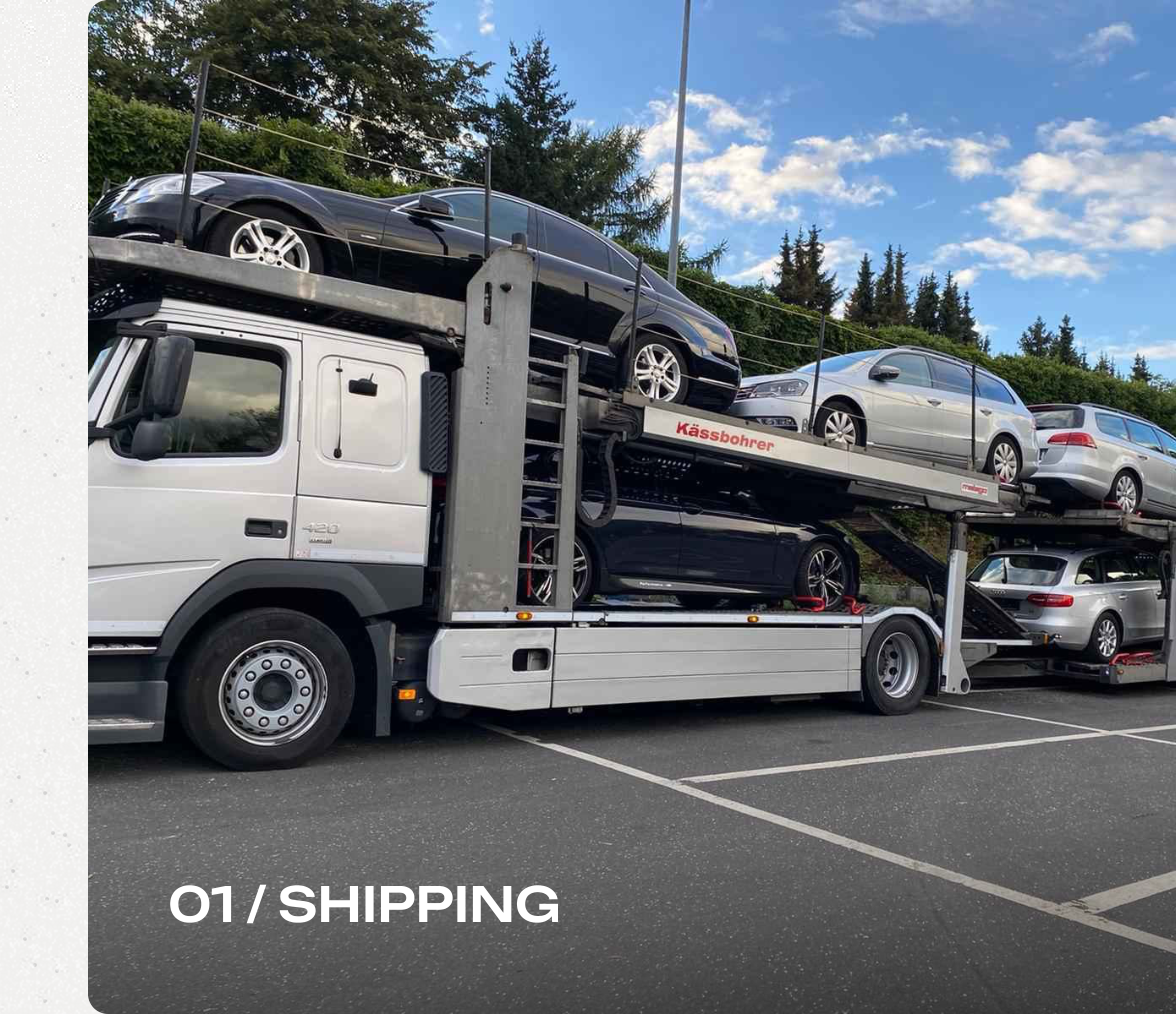
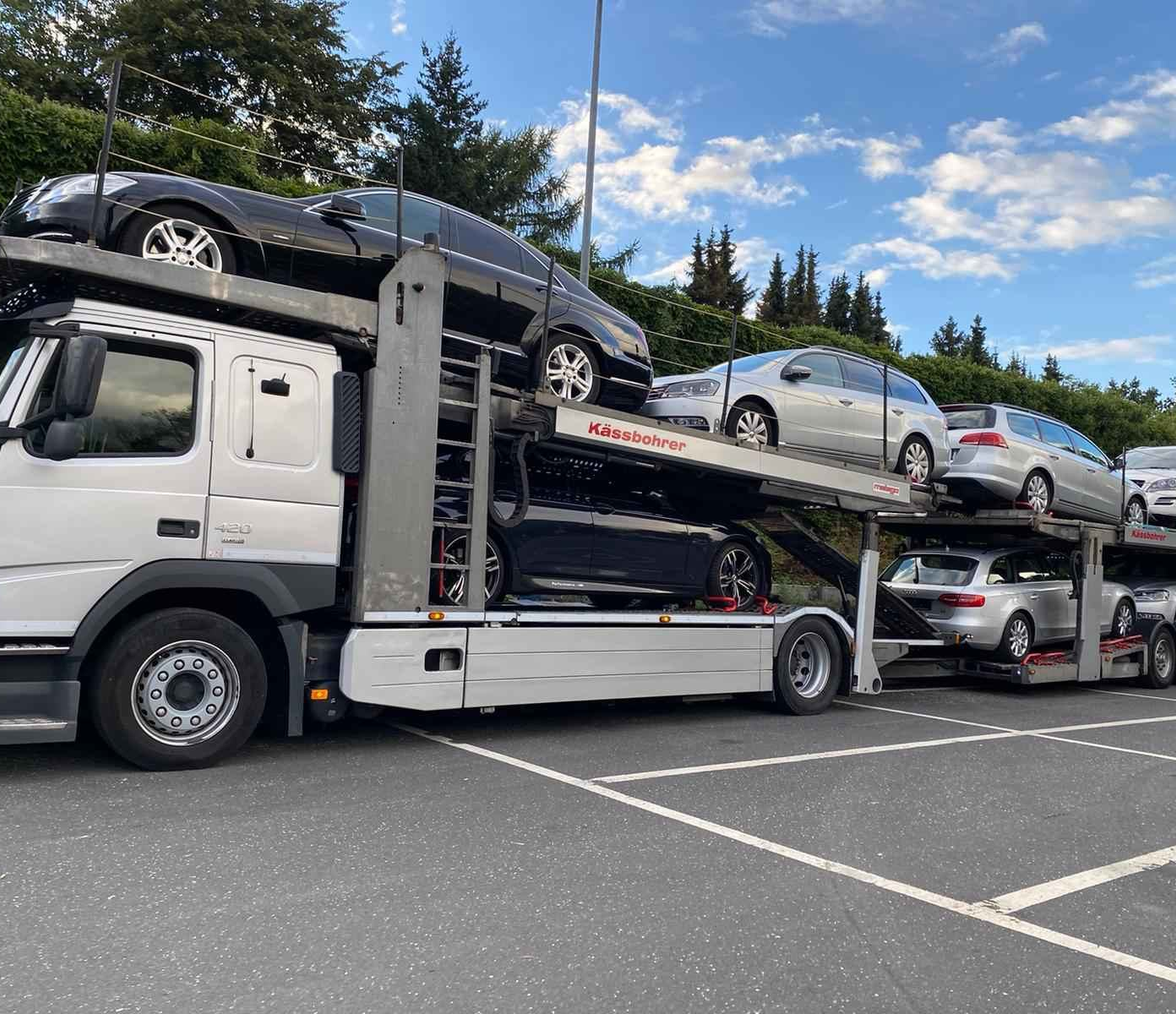
Fix duplicate service card labels
Extract photo-only images from PDF (labels are a separate layer) and
render a single HTML overlay for 01 / SHIPPING-style captions.

diff --git a/src/components/ServicesSection.jsx b/src/components/ServicesSection.jsx
@@ -20,16 +20,17 @@ export default function ServicesSection({ onSubmitApplication }) {
             <article key={service.id} className="service-card">
               <img
                 src={service.image}
-                alt=""
+                alt={service.title}
                 className="service-card__image"
                 loading="lazy"
                 decoding="async"
               />
-              <div className="service-card__overlay">
-                <p className="service-card__label">
-                  {service.num} / {service.title}
-                </p>
-              </div>
+              <div className="service-card__overlay" aria-hidden="true" />
+              <p className="service-card__label">
+                <span className="service-card__num">{service.num}</span>
+                <span className="service-card__slash"> / </span>
+                <span className="service-card__title">{service.title}</span>
+              </p>
             </article>
           ))}
         </div>

diff --git a/src/App.css b/src/App.css
@@ -903,24 +903,31 @@
 .service-card__overlay {
   position: absolute;
   inset: 0;
-  display: flex;
-  align-items: flex-end;
-  padding: 28px 32px;
   background: linear-gradient(
     180deg,
-    rgba(0, 0, 0, 0) 55%,
-    rgba(0, 0, 0, 0.55) 100%
+    rgba(0, 0, 0, 0) 62%,
+    rgba(0, 0, 0, 0.45) 100%
   );
   pointer-events: none;
 }
 
 .service-card__label {
+  position: absolute;
+  left: 32px;
+  bottom: 28px;
   margin: 0;
   font-size: 15px;
   font-weight: 700;
-  letter-spacing: 0.08em;
+  letter-spacing: 0.06em;
+  line-height: 1.2;
   color: #ffffff;
   text-transform: uppercase;
+  pointer-events: none;
+}
+
+.service-card__slash {
+  font-weight: 400;
+  letter-spacing: 0.04em;
 }
 
 @media (max-width: 1860px) {

diff --git a/scripts/extract-services-from-pdf.py b/scripts/extract-services-from-pdf.py
@@ -1,8 +1,9 @@
 #!/usr/bin/env python3
-"""Extract service card images from the Main design PDF."""
+"""Extract clean service card photos (no baked-in labels) from the Main design PDF."""
 
 from __future__ import annotations
 
+import io
 import sys
 from pathlib import Path
 
@@ -29,10 +30,11 @@ RENDER_SCALE = 2
 CARD_WIDTH = 588
 CARD_HEIGHT = 507
 
-CLIPS = [
-    ('service-shipping.png', fitz.Rect(14, 3890, 14 + CARD_WIDTH, 3890 + CARD_HEIGHT)),
-    ('service-warranty.png', fitz.Rect(666, 3890, 666 + CARD_WIDTH, 3890 + CARD_HEIGHT)),
-    ('service-financing.png', fitz.Rect(1308, 3890, 1308 + CARD_WIDTH, 3890 + CARD_HEIGHT)),
+# Embedded image xrefs for the three service photos (text is a separate PDF layer).
+SERVICE_IMAGES = [
+    ('service-shipping.png', 16),
+    ('service-warranty.png', 8),
+    ('service-financing.png', 34),
 ]
 
 
@@ -44,6 +46,18 @@ def find_pdf() -> Path | None:
     return None
 
 
+def cover_crop(image: Image.Image, width: int, height: int) -> Image.Image:
+    img_width, img_height = image.size
+    scale = max(width / img_width, height / img_height)
+    resized = image.resize(
+        (int(img_width * scale), int(img_height * scale)),
+        Image.Resampling.LANCZOS,
+    )
+    left = (resized.width - width) // 2
+    top = (resized.height - height) // 2
+    return resized.crop((left, top, left + width, top + height))
+
+
 def main() -> None:
     pdf_path = find_pdf()
     if not pdf_path:
@@ -52,14 +66,12 @@ def main() -> None:
 
     doc = fitz.open(pdf_path)
     page = doc[0]
-    matrix = fitz.Matrix(RENDER_SCALE, RENDER_SCALE)
+    target_size = (CARD_WIDTH * RENDER_SCALE, CARD_HEIGHT * RENDER_SCALE)
 
-    for filename, clip in CLIPS:
-        pixmap = page.get_pixmap(matrix=matrix, clip=clip, alpha=False)
-        image = Image.frombytes('RGB', (pixmap.width, pixmap.height), pixmap.samples)
-        target_size = (CARD_WIDTH * RENDER_SCALE, CARD_HEIGHT * RENDER_SCALE)
-        if image.size != target_size:
-            image = image.resize(target_size, Image.Resampling.LANCZOS)
+    for filename, xref in SERVICE_IMAGES:
+        info = doc.extract_image(xref)
+        image = Image.open(io.BytesIO(info['image'])).convert('RGB')
+        image = cover_crop(image, *target_size)
 
         for directory in OUTPUT_DIRS:
             directory.mkdir(parents=True, exist_ok=True)
